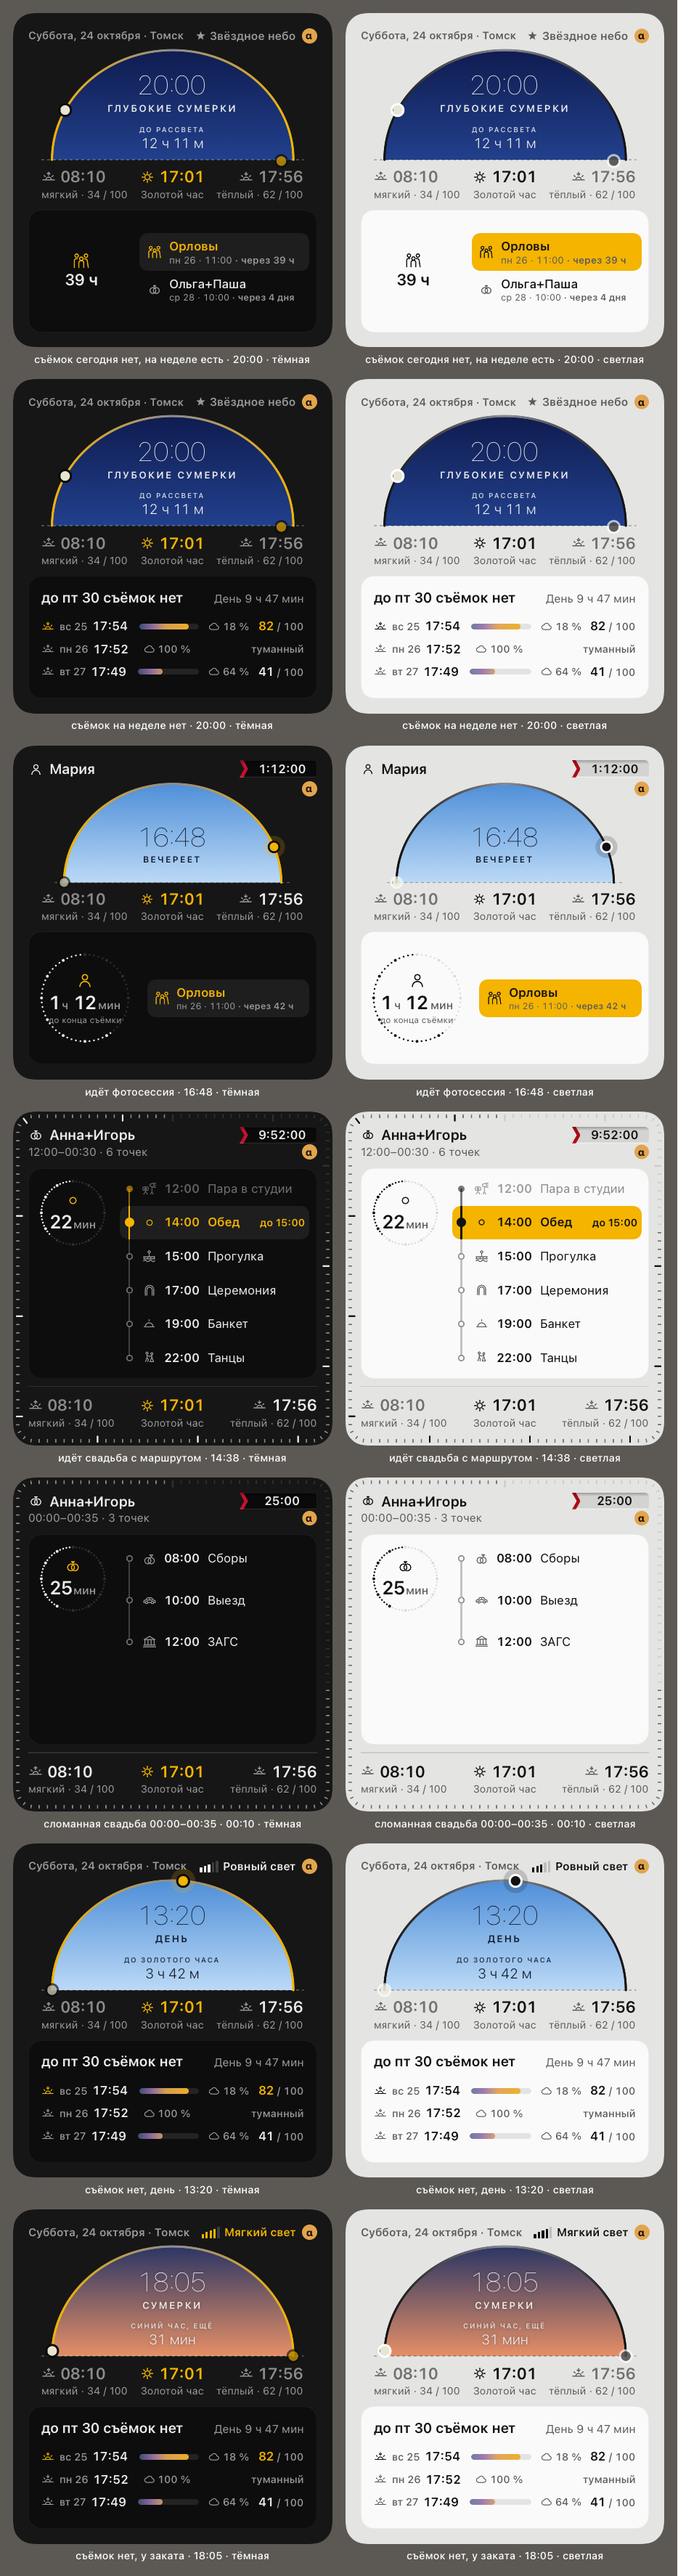
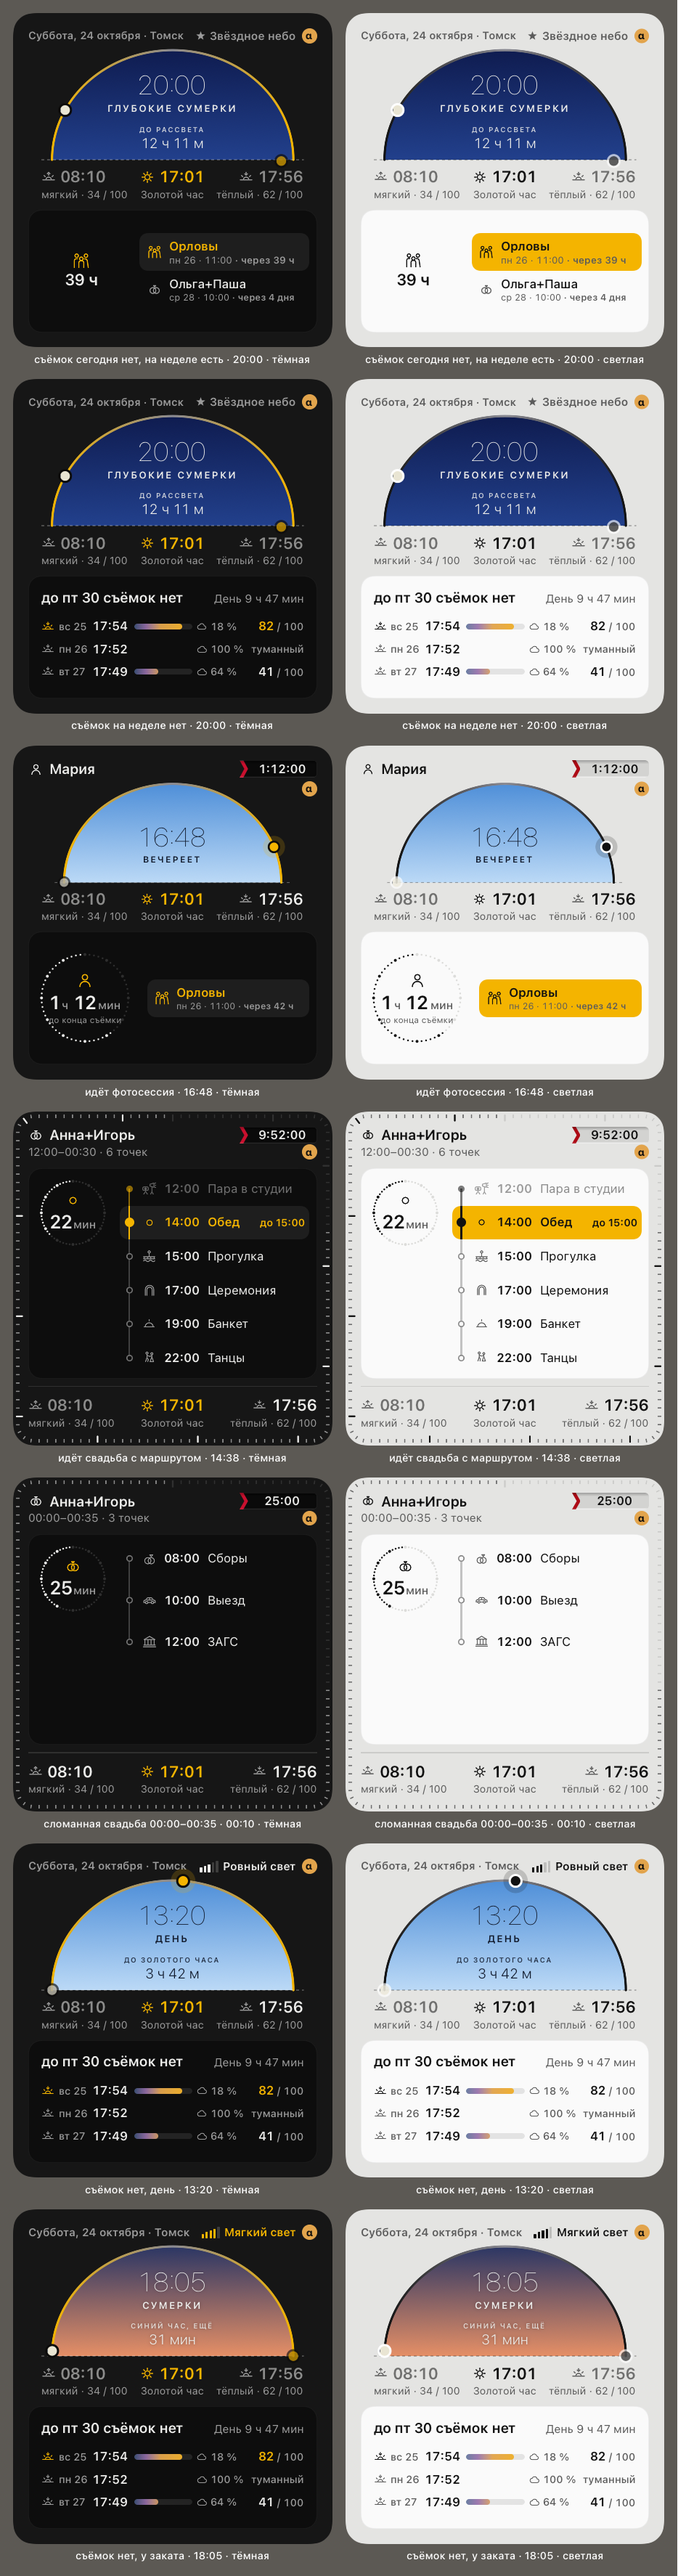
Полоски закатов большого виджета одной длины (30и.16б)
Алексей 16.11 на телефоне: «полоски разной длинны». Полоска брала остаток строки, а соседние подписи разной ширины («вт 17» шире
«чт 19», «99 %» шире «0 %») — края расходились до 7 pt. Теперь строка большого стоит в колонках общей ширины на все три дня (день, время,
облачность по «100 %», балл по «100 / 100»); строка без балла держит пустое место полоски, её облачность — в своей колонке. Промежутки
5 → 4 pt, знак облака 14 → 13: на 338 pt полоска не короче 48 pt. Тест `theSunsetBarsHaveOneLength` (данные снимка: 99 / 0 / 80 %)
красный на прежней раскладке, зелёный на новой.

diff --git a/LightPlanWidget/Views/BraunIdleWidget.swift b/LightPlanWidget/Views/BraunIdleWidget.swift
@@ -460,6 +460,24 @@ struct BraunSunsetRow: View {
     let height: Double
     /// Большой виджет: места хватает на «82 / 100», как в ножках купола; средний — одно число.
     var wide = false
+    /// Колонки большого, общие на все строки (30и.16б, Алексей 16.11: «полоски разной длинны»): без них полоска брала остаток строки,
+    /// а «вт 17» шире «чт 19», «99 %» шире «0 %» — полоски начинались и кончались на разных x.
+    var cols: Cols? = nil
+
+    struct Cols: Equatable {
+        var day: Double, time: Double, clouds: Double, score: Double
+
+        /// Ширина колонки — самая широкая строка из всех; облачность и балл — по самым широким возможным («100 %», «100 / 100»),
+        /// чтобы полоска не прыгала от дня к дню. Нет облачности ни в одной строке — её колонки нет.
+        static func of(_ rows: [BraunIdle.SunsetRow]) -> Cols {
+            let day = rows.map { BraunText.width($0.day, size: 11, semibold: false) }.max() ?? 0
+            let time = rows.map { BraunText.width($0.time, size: 13, semibold: true, mono: true) }.max() ?? 0
+            let clouds = rows.contains { $0.clouds != nil } ? 13 + 2 + BraunText.width("100 %", size: 11, semibold: false, mono: true) : 0
+            // Балл — по «100 / 100»; слово неба (строка без балла) уже этого не бывает, иначе мельчает до 0,75.
+            let score = BraunText.width("100", size: 13, semibold: true, mono: true) + BraunText.width(" / 100", size: 11, semibold: false, mono: true)
+            return Cols(day: ceil(day) + 1, time: ceil(time) + 1, clouds: ceil(clouds) + 1, score: ceil(score) + 1)
+        }
+    }
 
     /// Кегль слова неба: 11 → 10 → 9, первый, что влезает в остаток строки после знака, дня и времени; не влез и 9 — режется «…».
     static func wordSize(_ row: BraunIdle.SunsetRow, width: Double) -> Double {
@@ -469,8 +487,68 @@ struct BraunSunsetRow: View {
     }
 
     var body: some View {
+        if let cols { columns(cols) } else { free }
+    }
+
+    /// Большой: строка в колонках общей ширины — знак · день · время · полоска (остаток) · облачность · балл или слово неба. Края полосок
+    /// у всех строк на одних x; строка без балла держит пустое место полоски, облачность стоит в своей колонке.
+    private func columns(_ c: Cols) -> some View {
         let good = (row.score ?? 0) >= 75
-        HStack(spacing: 5) {
+        return HStack(spacing: Self.gap) {
+            WidgetIcon(name: BraunSign.light(.sunset), size: 14, line: 1.5).frame(width: 14, height: 14).foregroundStyle(good ? pal.amber : pal.muted)
+            Text(row.day).font(.system(size: 11, weight: .medium)).foregroundStyle(pal.muted).lineLimit(1).fixedSize()
+                .frame(width: CGFloat(c.day), alignment: .leading)
+            Text(row.time).font(.system(size: 13, weight: .semibold)).monospacedDigit().foregroundStyle(pal.text).lineLimit(1).fixedSize()
+                .frame(width: CGFloat(c.time), alignment: .leading)
+            Group {
+                if let score = row.score { bar(score) } else { Color.clear.frame(height: Self.barHeight) }
+            }
+            .frame(minWidth: 24, maxWidth: .infinity)
+            if c.clouds > 1 {
+                Group {
+                    if let clouds = row.clouds {
+                        HStack(spacing: 2) {
+                            WidgetIcon(name: "cloud", size: 13, line: 1.5).frame(width: 13, height: 13)
+                            Text("\(clouds) %").font(.system(size: 11, weight: .medium)).monospacedDigit().lineLimit(1).fixedSize()
+                        }
+                        .foregroundStyle(pal.muted)
+                    } else { Color.clear }
+                }
+                .frame(width: CGFloat(c.clouds), alignment: .leading)
+            }
+            Group {
+                if let score = row.score {
+                    (Text("\(score)").font(.system(size: 13, weight: .semibold)).foregroundStyle(good ? pal.amber : pal.text)
+                     + Text(" / 100").font(.system(size: 11, weight: .medium)).foregroundStyle(pal.muted)).monospacedDigit()
+                } else if let word = row.word {
+                    Text(word).font(.system(size: 11, weight: .medium)).foregroundStyle(pal.muted).minimumScaleFactor(0.75)
+                }
+            }
+            .lineLimit(1)
+            .frame(width: CGFloat(c.score), alignment: .trailing)
+        }
+        .frame(width: width, height: height, alignment: .leading)
+    }
+
+    private func bar(_ score: Int) -> some View {
+        GeometryReader { g in
+            let w = g.size.width, h = Self.barHeight
+            ZStack(alignment: .leading) {
+                Capsule().fill(pal.ink(0.10))
+                LinearGradient(stops: BraunGauge.scale, startPoint: .leading, endPoint: .trailing)
+                    .frame(width: w, height: h)
+                    .mask(alignment: .leading) { Capsule().frame(width: max(h, w * BraunIdle.gaugeLevel(score: score)), height: h) }
+            }
+            .frame(width: w, height: h).clipShape(Capsule())
+            .frame(maxHeight: .infinity)
+        }
+    }
+
+    static let gap = 4.0
+
+    private var free: some View {
+        let good = (row.score ?? 0) >= 75
+        return HStack(spacing: 5) {
             WidgetIcon(name: BraunSign.light(.sunset), size: 14, line: 1.5).frame(width: 14, height: 14).foregroundStyle(good ? pal.amber : pal.muted)
             Text(row.day).font(.system(size: 11, weight: .medium)).foregroundStyle(pal.muted).lineLimit(1).fixedSize()
             Text(row.time).font(.system(size: 13, weight: .semibold)).monospacedDigit().foregroundStyle(pal.text).lineLimit(1).fixedSize()
@@ -484,7 +562,9 @@ struct BraunSunsetRow: View {
                     Text(word).font(.system(size: Self.wordSize(row, width: width), weight: .medium)).foregroundStyle(pal.muted)
                 }
             }
-            .lineLimit(1).padding(.leading, 4).frame(maxWidth: wide && row.score != nil ? nil : .infinity, alignment: .trailing).fixedSize(horizontal: wide && row.score != nil, vertical: false)
+            .lineLimit(1).padding(.leading, 4)
+            .frame(maxWidth: wide && row.score != nil ? nil : .infinity, alignment: .trailing)
+            .fixedSize(horizontal: wide && row.score != nil, vertical: false)
         }
         .frame(width: width, height: height, alignment: .leading)
     }
@@ -510,7 +590,20 @@ struct BraunSunsetRow: View {
         } else {
             Spacer(minLength: 0)
         }
-        if let clouds = row.clouds {
+        if let cols, cols.clouds > 1 {
+            // Колонка облачности стоит и в строке без неё: иначе полоска этой строки была бы длиннее.
+            Group {
+                if let clouds = row.clouds {
+                    HStack(spacing: 2) {
+                        WidgetIcon(name: "cloud", size: 14, line: 1.5).frame(width: 14, height: 14)
+                        Text("\(clouds) %").font(.system(size: 11, weight: .medium)).monospacedDigit().lineLimit(1).fixedSize()
+                    }
+                    .foregroundStyle(pal.muted)
+                } else { Color.clear }
+            }
+            .frame(width: cols.clouds, alignment: .leading)
+            .padding(.leading, 6)
+        } else if let clouds = row.clouds {
             HStack(spacing: 2) {
                 WidgetIcon(name: "cloud", size: 14, line: 1.5).frame(width: 14, height: 14)
                 Text("\(clouds) %").font(.system(size: 11, weight: .medium)).monospacedDigit().lineLimit(1).fixedSize()

diff --git a/Packages/LightPlanUI/Tests/LightPlanUITests/WidgetLargeStatesTests.swift b/Packages/LightPlanUI/Tests/LightPlanUITests/WidgetLargeStatesTests.swift
@@ -229,6 +229,55 @@ struct WidgetLargeStatesTests {
         }
     }
 
+    // MARK: Полоски закатов одной длины (30и.16б)
+
+    /// Снимок Алексея 16.11 («полоски разной длинны»): облачность 99 % / 0 % / 80 % и дни «вт 17» / «ср 18» / «чт 19» двигали края полосок.
+    /// Теперь колонки общие: у трёх полосок одно начало и один конец (±0,5 pt), на обоих размерах и в обеих темах. Полоска — самый длинный
+    /// сплошной отрезок дорожки или заливки в строке (текст ни того ни другого цвета не бывает). Длина полоски на 338 pt — не меньше 48 pt.
+    @Test func theSunsetBarsHaveOneLength() throws {
+        let fc: [WidgetFeed.Rating] = [.init(day: "2026-10-24", score: 61, quality: .good),
+                                       .init(day: "2026-10-25", score: 61, quality: .good, clouds: 99),
+                                       .init(day: "2026-10-26", score: 38, quality: .plain, clouds: 0),
+                                       .init(day: "2026-10-27", score: 58, quality: .good, clouds: 80)]
+        let f = Self.frame(at: Self.tsk(16, 28), shoots: [], forecast: fc)
+        for size in Self.sizes {
+            for dark in [true, false] {
+                let px = try render(plate(f, size, dark: dark), scale: 4)
+                // Полоска — дорожка (чернила × 0,10 по подложке блока) или цветная заливка; серый текст ни тем ни другим не бывает длиннее 50 pt.
+                let track = dark ? 13 + (236 - 13) * 0.10 : 250 + (17 - 250) * 0.10
+                func isBar(_ c: (Double, Double, Double)) -> Bool {
+                    let sat = max(c.0, c.1, c.2) - min(c.0, c.1, c.2)
+                    return sat > 25 || (sat < 4 && abs(c.0 - track) < 5)
+                }
+                var bars: [(y: Double, from: Double, to: Double)] = []
+                var y = Double(size.height) * 0.6
+                while y < Double(size.height) - 16 {
+                    var best = (0.0, 0.0), runStart: Double? = nil, x = 20.0
+                    while x < Double(size.width) - 20 {
+                        let ink = isBar(px.rgb(x, y))
+                        if ink, runStart == nil { runStart = x }
+                        if !ink, let a = runStart { if x - a > best.1 - best.0 { best = (a, x) }; runStart = nil }
+                        x += 0.25
+                    }
+                    if best.1 - best.0 > 30, best.1 - best.0 < Double(size.width) * 0.5 {
+                        // Соседние строки пикселей одной полоски — одна полоска (y — последняя найденная строка).
+                        if let last = bars.last, y - last.y < 1 { bars[bars.count - 1] = (y, min(last.from, best.0), max(last.to, best.1)) }
+                        else { bars.append((y, best.0, best.1)) }
+                    }
+                    y += 0.25
+                }
+                let name = "\(Int(size.width)) \(dark ? "тёмная" : "светлая")"
+                #expect(bars.count == 3, "\(name): полосок \(bars.count): \(bars)")
+                #expect(bars.allSatisfy { $0.to - $0.from >= (size.width < 364 ? 48 : 70) }, "\(name): полоски короткие \(bars.map { $0.to - $0.from })")
+                if let a = bars.first {
+                    for b in bars.dropFirst() {
+                        #expect(abs(b.from - a.from) <= 0.5 && abs(b.to - a.to) <= 0.5, "\(name): полоски \(bars.map { ($0.from, $0.to) })")
+                    }
+                }
+            }
+        }
+    }
+
     // MARK: Картинки для проверки глазом
 
     /// Листы видов в `$LP_BUILT_DIR` или `/tmp/lp-built-out`, если папка заведена: `large_states_pro.png` (364 × 382) и `large_states_regular.png` (338 × 354);

diff --git a/LightPlanWidget/Views/CountdownBlock.swift b/LightPlanWidget/Views/CountdownBlock.swift
@@ -97,6 +97,7 @@ struct CountdownBlock: View {
     /// закаты — то же правило, что у среднего: `BraunIdle.sunsetRows`, строка `BraunSunsetRow`, на большом с «/ 100»).
     private func empty(size: CGSize) -> some View {
         let sunsets = BraunIdle.sunsetRows(frame)
+        let cols = BraunSunsetRow.Cols.of(sunsets)
         let rowH = sunsets.isEmpty ? 0 : min(36, (size.height - 24 - 26 - 8) / CGFloat(sunsets.count))
         return VStack(alignment: .leading, spacing: 0) {
             HStack(alignment: .firstTextBaseline) {
@@ -110,7 +111,7 @@ struct CountdownBlock: View {
             .frame(height: 26)
             Spacer(minLength: 0)
             VStack(spacing: 0) {
-                ForEach(sunsets.indices, id: \.self) { i in BraunSunsetRow(row: sunsets[i], pal: pal, width: size.width - 28, height: rowH, wide: true) }
+                ForEach(sunsets.indices, id: \.self) { i in BraunSunsetRow(row: sunsets[i], pal: pal, width: size.width - 28, height: rowH, wide: true, cols: cols) }
             }
             Spacer(minLength: 0)
         }
